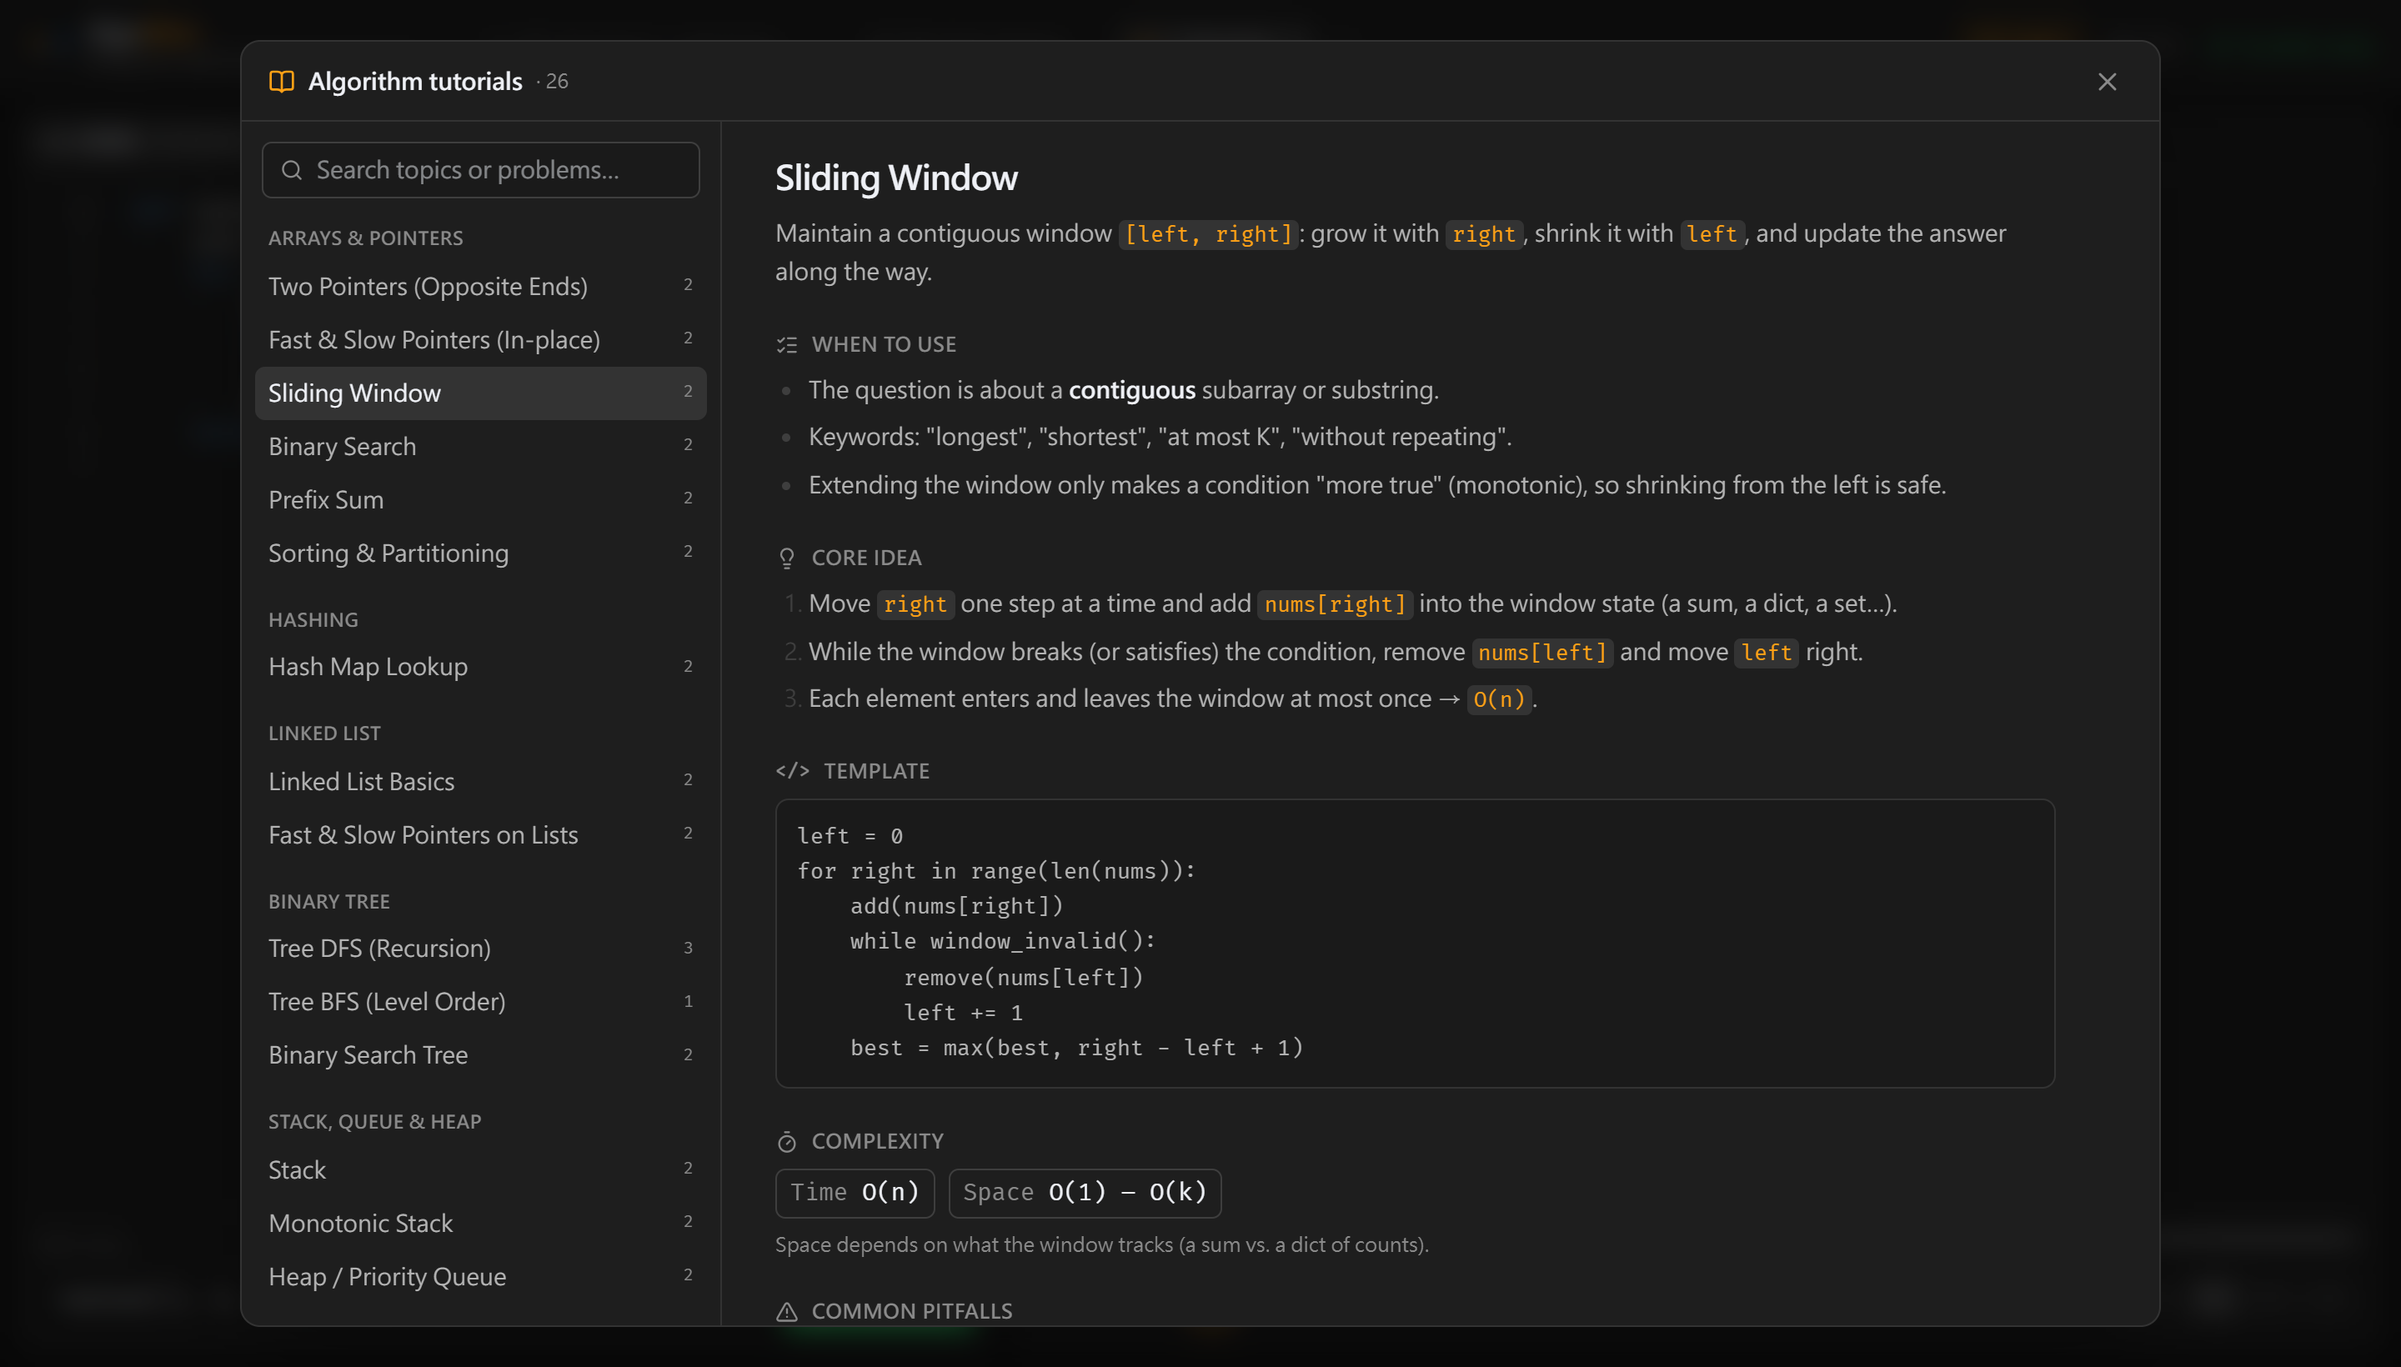
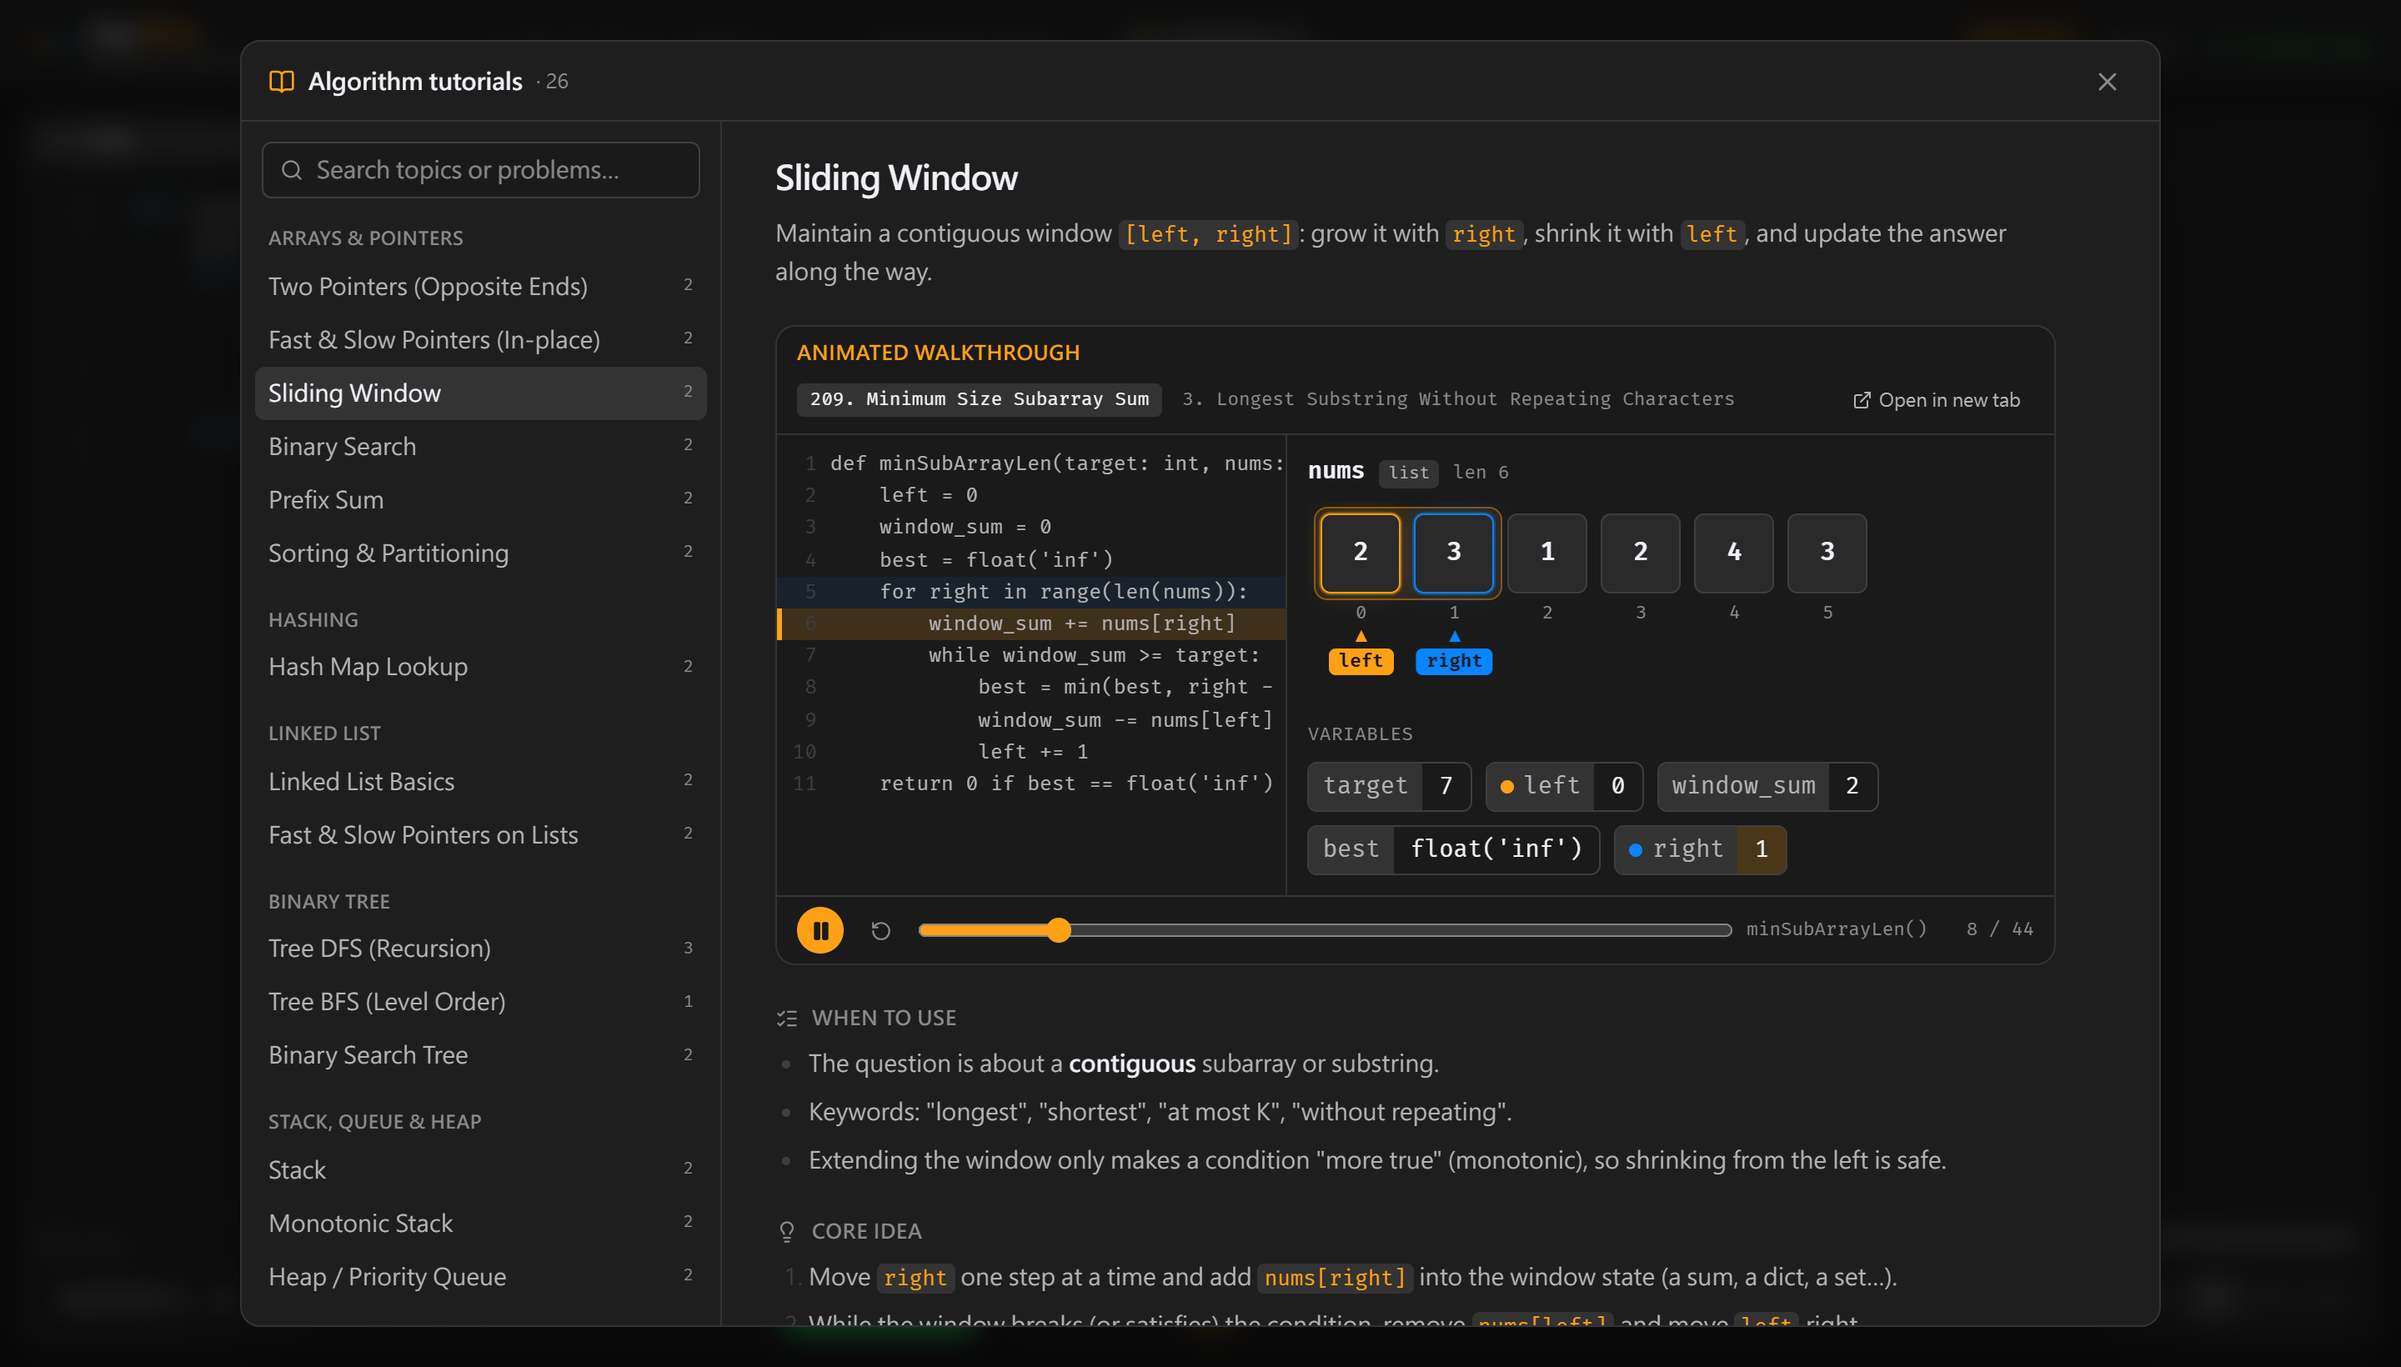
feat: animated walkthrough on every tutorial
- TutorialDemo runs the tutorial's example in the background and loops
  through it: code with the current line on the left, the same
  visualizer on the right; play / pause, replay, scrubbing, switching
  between the topic's examples, recursion depth in the footer
- Traces are cached per example; playback pauses off-screen and does
  not autoplay with prefers-reduced-motion
- Runner: background runs leave the Visualize button state alone; runs
  queued behind a timed-out one are rejected instead of hanging
- Code blocks no longer render ligatures (>=, ==, ->)
- e2e checks that the demo runs, autoplays and does not block Visualize

Changed region(s): [[0.3125, 0.2488, 0.8125, 0.964], [0.7812, 0.2799, 0.8438, 0.311], [0.625, 0.9329, 0.6875, 0.964]]

diff --git a/src/components/TutorialDemo.tsx b/src/components/TutorialDemo.tsx
@@ -1,0 +1,198 @@
+import { useEffect, useMemo, useRef, useState } from 'react';
+import { ExternalLink, Loader2, Pause, Play, RotateCcw } from 'lucide-react';
+import { useL, useT } from '../i18n';
+import { computeCellKeys } from '../lib/cellKeys';
+import { analyzeIndexing } from '../lib/indexing';
+import { runner } from '../runtime/runner';
+import type { Example, Tutorial } from '../tutorials';
+import type { TraceResult } from '../types';
+import { Visualizer } from './Visualizer';
+
+/** 範例的 trace 只算一次；同一個範例重複開啟時直接沿用 */
+const traceCache = new Map<string, Promise<TraceResult>>();
+function loadTrace(ex: Example): Promise<TraceResult> {
+  let p = traceCache.get(ex.id);
+  if (!p) {
+    p = runner.run(ex.code, ex.call, { background: true });
+    p.catch(() => traceCache.delete(ex.id)); // 失敗的不快取，下次重試
+    traceCache.set(ex.id, p);
+  }
+  return p;
+}
+
+const STEP_MS = 800;
+/** 播到最後一步後停留多久再重播 */
+const END_HOLD_MS = 2200;
+
+const prefersReducedMotion = () => window.matchMedia?.('(prefers-reduced-motion: reduce)').matches ?? false;
+
+interface Props {
+  tutorial: Tutorial;
+  onOpenExample: (example: Example) => void;
+}
+
+/** 教學頁上方的動畫示範：自動循環播放範例的執行過程（左：程式碼，右：視覺化） */
+export function TutorialDemo({ tutorial, onOpenExample }: Props) {
+  const t = useT();
+  const l = useL();
+  const [exampleId, setExampleId] = useState(tutorial.examples[0].id);
+  const example = tutorial.examples.find((e) => e.id === exampleId) ?? tutorial.examples[0];
+  const [trace, setTrace] = useState<TraceResult | null>(null);
+  const [error, setError] = useState<string | null>(null);
+  const [index, setIndex] = useState(0);
+  const [playing, setPlaying] = useState(() => !prefersReducedMotion());
+  const [visible, setVisible] = useState(true);
+  const rootRef = useRef<HTMLDivElement>(null);
+
+  useEffect(() => {
+    let alive = true;
+    setTrace(null);
+    setError(null);
+    setIndex(0);
+    loadTrace(example)
+      .then((tr) => alive && setTrace(tr))
+      .catch((e) => alive && setError(e instanceof Error ? e.message : String(e)));
+    return () => {
+      alive = false;
+    };
+  }, [example]);
+
+  // 捲出畫面時暫停，省得在背後一直重繪
+  useEffect(() => {
+    const el = rootRef.current;
+    if (!el || typeof IntersectionObserver === 'undefined') return;
+    const io = new IntersectionObserver(([entry]) => setVisible(entry.isIntersecting), { threshold: 0.15 });
+    io.observe(el);
+    return () => io.disconnect();
+  }, []);
+
+  const steps = trace?.steps ?? [];
+  const last = Math.max(0, steps.length - 1);
+
+  useEffect(() => {
+    if (!playing || !visible || !steps.length) return;
+    const atEnd = index >= last;
+    const timer = window.setTimeout(() => setIndex(atEnd ? 0 : index + 1), atEnd ? END_HOLD_MS : STEP_MS);
+    return () => window.clearTimeout(timer);
+  }, [playing, visible, index, last, steps.length]);
+
+  const cellKeys = useMemo(() => computeCellKeys(steps), [steps]);
+  const indexMap = useMemo(() => analyzeIndexing(example.code), [example.code]);
+  const step = steps[index];
+  const prev = index > 0 ? steps[index - 1] : undefined;
+  const lines = example.code.replace(/\n$/, '').split('\n');
+
+  return (
+    <div ref={rootRef} className="@container mt-5 overflow-hidden rounded-xl border border-ink-700 bg-ink-900" data-demo={example.id}>
+      {/* 標題列：範例切換 + 在新頁籤開啟 */}
+      <div className="flex flex-wrap items-center gap-2 border-b border-ink-700 px-3 py-2">
+        <span className="text-xs font-semibold tracking-wide text-brand uppercase">{t('demo')}</span>
+        <div className="flex flex-wrap gap-1">
+          {tutorial.examples.map((ex) => (
+            <button
+              key={ex.id}
+              onClick={() => setExampleId(ex.id)}
+              title={l(ex.title)}
+              className={`rounded px-2 py-0.5 font-mono text-[11px] transition ${
+                ex.id === example.id ? 'bg-ink-700 text-ink-100' : 'text-ink-400 hover:bg-ink-800 hover:text-ink-100'
+              }`}
+            >
+              {ex.number}. {l(ex.title)}
+            </button>
+          ))}
+        </div>
+        <button
+          onClick={() => onOpenExample(example)}
+          className="ml-auto flex items-center gap-1 rounded-md px-2 py-1 text-[11px] text-ink-300 transition hover:bg-ink-700 hover:text-ink-100"
+        >
+          <ExternalLink size={12} />
+          {t('openInNewTab')}
+        </button>
+      </div>
+
+      <div className="grid @2xl:grid-cols-[minmax(0,2fr)_minmax(0,3fr)]">
+        {/* 程式碼：目前行橘色、上一步的行藍色 */}
+        <pre className="scrollbar-thin max-h-80 overflow-auto border-b border-ink-700 py-2 font-mono text-[12px] leading-[1.6] @2xl:border-r @2xl:border-b-0">
+          {lines.map((line, i) => {
+            const n = i + 1;
+            const current = step?.lineNumber === n;
+            const previous = !current && prev?.lineNumber === n;
+            return (
+              <div
+                key={i}
+                className="flex transition-colors duration-200"
+                style={{
+                  backgroundColor: current ? 'rgba(255,161,22,0.16)' : previous ? 'rgba(10,132,255,0.08)' : 'transparent',
+                  boxShadow: current ? 'inset 3px 0 0 #ffa116' : 'none',
+                }}
+              >
+                <span className="w-8 shrink-0 pr-2 text-right text-ink-600 select-none">{n}</span>
+                <span className="pr-3 whitespace-pre text-ink-300">{line || ' '}</span>
+              </div>
+            );
+          })}
+        </pre>
+
+        {/* 視覺化 */}
+        <div className="scrollbar-thin max-h-80 min-h-40 overflow-auto p-3">
+          {step ? (
+            <div className="origin-top-left">
+              <Visualizer step={step} prev={prev} cellKeys={cellKeys[index] ?? {}} indexMap={indexMap} />
+            </div>
+          ) : error ? (
+            <p className="text-xs text-err">{error}</p>
+          ) : (
+            <div className="flex h-full min-h-32 items-center justify-center gap-2 text-xs text-ink-400">
+              <Loader2 size={14} className="animate-spin" />
+              {t('demoLoading')}
+            </div>
+          )}
+        </div>
+      </div>
+
+      {/* 播放控制 */}
+      <div className="flex items-center gap-2 border-t border-ink-700 px-3 py-1.5">
+        <button
+          onClick={() => setPlaying((p) => !p)}
+          disabled={!steps.length}
+          className="flex size-7 items-center justify-center rounded-full bg-brand text-ink-900 transition hover:brightness-110 disabled:opacity-30"
+          title={playing ? t('pause') : t('play')}
+          aria-label={playing ? t('pause') : t('play')}
+        >
+          {playing ? <Pause size={13} fill="currentColor" /> : <Play size={13} fill="currentColor" className="ml-0.5" />}
+        </button>
+        <button
+          onClick={() => setIndex(0)}
+          disabled={!steps.length}
+          className="flex size-7 items-center justify-center rounded-md text-ink-400 transition hover:bg-ink-700 hover:text-ink-100 disabled:opacity-30"
+          title={t('replay')}
+          aria-label={t('replay')}
+        >
+          <RotateCcw size={13} />
+        </button>
+        <input
+          type="range"
+          className="aa-timeline min-w-0 flex-1"
+          min={0}
+          max={last}
+          value={index}
+          disabled={!steps.length}
+          onChange={(e) => {
+            setIndex(Number(e.target.value));
+            setPlaying(false);
+          }}
+          aria-label={t('timeline')}
+        />
+        {step && (
+          <span className="hidden font-mono text-[11px] text-ink-400 sm:inline">
+            {step.funcName}()
+            {step.depth > 1 && <span className="text-brand"> · {t('depth', { n: step.depth })}</span>}
+          </span>
+        )}
+        <span className="w-14 text-right font-mono text-[11px] text-ink-400" data-demo-progress>
+          {steps.length ? `${index + 1} / ${steps.length}` : '–'}
+        </span>
+      </div>
+    </div>
+  );
+}

diff --git a/src/runtime/runner.ts b/src/runtime/runner.ts
@@ -6,7 +6,12 @@ export type RuntimeStatus = 'loading' | 'ready' | 'running' | 'error';
 /** 單次執行的牆鐘時間上限；超過就砍掉 Worker 重建（MAX_STEPS 擋不住的單行超大運算）。 */
 const RUN_TIMEOUT_MS = 10_000;
 
-type Pending = { resolve: (r: TraceResult) => void; reject: (e: Error) => void; timer: number };
+type Pending = { resolve: (r: TraceResult) => void; reject: (e: Error) => void; timer: number; background: boolean };
+
+export interface RunOptions {
+  /** 背景執行（例如教學動畫）：不改變執行狀態，主畫面的「視覺化」按鈕不會因此變成忙碌中 */
+  background?: boolean;
+}
 
 /** 管理 Pyodide Worker 的生命週期與請求對應。 */
 export class PythonRunner {
@@ -57,23 +62,30 @@ export class PythonRunner {
     if (!p) return;
     this.pending.delete(msg.id);
     clearTimeout(p.timer);
-    this.setStatus('ready');
+    // 還有前景執行在跑時維持 running
+    if (!p.background && ![...this.pending.values()].some((x) => !x.background)) this.setStatus('ready');
     if (msg.type === 'result') p.resolve(JSON.parse(msg.json) as TraceResult);
     else p.reject(new Error(msg.message));
   }
 
-  async run(code: string, call: string): Promise<TraceResult> {
+  async run(code: string, call: string, { background = false }: RunOptions = {}): Promise<TraceResult> {
     await this.ready;
     const id = this.nextId++;
-    this.setStatus('running');
+    if (!background) this.setStatus('running');
     return new Promise<TraceResult>((resolve, reject) => {
       const timer = window.setTimeout(() => {
         this.pending.delete(id);
         this.worker.terminate();
+        // Worker 重建後，排在它後面、還沒回應的其他執行也不會有結果了，一併結束
+        for (const [otherId, other] of this.pending) {
+          clearTimeout(other.timer);
+          other.reject(new Error('The Python runtime was restarted. Please run again.'));
+          this.pending.delete(otherId);
+        }
         this.spawn();
         reject(new Error(`Execution took longer than ${RUN_TIMEOUT_MS / 1000}s and was stopped. The Python runtime is restarting…`));
       }, RUN_TIMEOUT_MS);
-      this.pending.set(id, { resolve, reject, timer });
+      this.pending.set(id, { resolve, reject, timer, background });
       this.worker.postMessage({ type: 'run', id, code, call } satisfies WorkerRequest);
     });
   }

diff --git a/src/components/TutorialView.tsx b/src/components/TutorialView.tsx
@@ -2,6 +2,7 @@ import { useState, type ReactNode } from 'react';
 import { AlertTriangle, Check, Copy, ExternalLink, Lightbulb, ListChecks, Timer } from 'lucide-react';
 import { useL, useT, type L } from '../i18n';
 import type { Difficulty, Example, Tutorial } from '../tutorials';
+import { TutorialDemo } from './TutorialDemo';
 
 /** 支援 **粗體** 與 `程式碼` 的簡易行內格式 */
 export function Rich({ text }: { text: string }) {
@@ -106,6 +107,9 @@ export function TutorialView({ tutorial, onOpenExample, currentExampleId }: Prop
       <p className="mt-2 text-sm leading-relaxed text-ink-300">
         <Rich text={l(tutorial.tagline)} />
       </p>
+
+      {/* 切換主題時重新掛載，回到該主題的第一個範例 */}
+      <TutorialDemo key={tutorial.id} tutorial={tutorial} onOpenExample={onOpenExample} />
 
       <Section icon={<ListChecks size={14} />} title={t('whenToUse')}>
         <BulletList items={tutorial.whenToUse} />

diff --git a/src/i18n.tsx b/src/i18n.tsx
@@ -76,6 +76,11 @@ const STRINGS = {
   hard: { en: 'Hard', zh: '困難' },
   copy: { en: 'Copy', zh: '複製' },
   copied: { en: 'Copied', zh: '已複製' },
+  demo: { en: 'Animated walkthrough', zh: '動畫示範' },
+  demoLoading: { en: 'Running the example…', zh: '正在執行範例…' },
+  play: { en: 'Play', zh: '播放' },
+  pause: { en: 'Pause', zh: '暫停' },
+  replay: { en: 'Replay', zh: '從頭播放' },
   linkedList: { en: 'linked list', zh: '鏈結串列' },
   binaryTree: { en: 'binary tree', zh: '二元樹' },
   nodeCount: { en: '{n} nodes', zh: '{n} 個節點' },

diff --git a/src/index.css b/src/index.css
@@ -55,6 +55,12 @@ body {
   border-left: 8px solid var(--color-brand);
 }
 
+/* 程式碼不使用連字，>= 、== 、-> 照原樣顯示，初學者才不會誤讀 */
+pre,
+code {
+  font-variant-ligatures: none;
+}
+
 .scrollbar-thin {
   scrollbar-width: thin;
   scrollbar-color: var(--color-ink-600) transparent;

diff --git a/README.md b/README.md
@@ -37,7 +37,9 @@ AlgoAlive 是專為 **Python LeetCode 刷題** 設計的互動式步驟動畫器
 
 ![演算法教學：滑動視窗](docs/tutorials.png)
 
-點右上角 **Learn / 演算法教學** 開啟。每個主題包含「什麼時候用、核心觀念、程式模板、複雜度、常見陷阱」，並附 1～3 題可直接執行的 LeetCode 範例；從範例開啟的頁籤可以把左側切到「教學」，邊讀邊跑。
+點右上角 **Learn / 演算法教學** 開啟。每個主題最上方都有**動畫示範**：在背景實際執行範例，左邊程式碼標出執行中的行、右邊是同樣的陣列 / 指針 / 樹 / 圖動畫，自動循環播放（可暫停、拖曳時間軸、切換該主題的其他範例；捲出畫面時自動暫停，系統開啟「減少動態效果」時不自動播放）。
+
+接著是「什麼時候用、核心觀念、程式模板、複雜度、常見陷阱」，並附 1～3 題可直接執行的 LeetCode 範例；從範例開啟的頁籤可以把左側切到「教學」，邊讀邊跑。
 
 | 分類 | 主題（範例題號） |
 |---|---|
